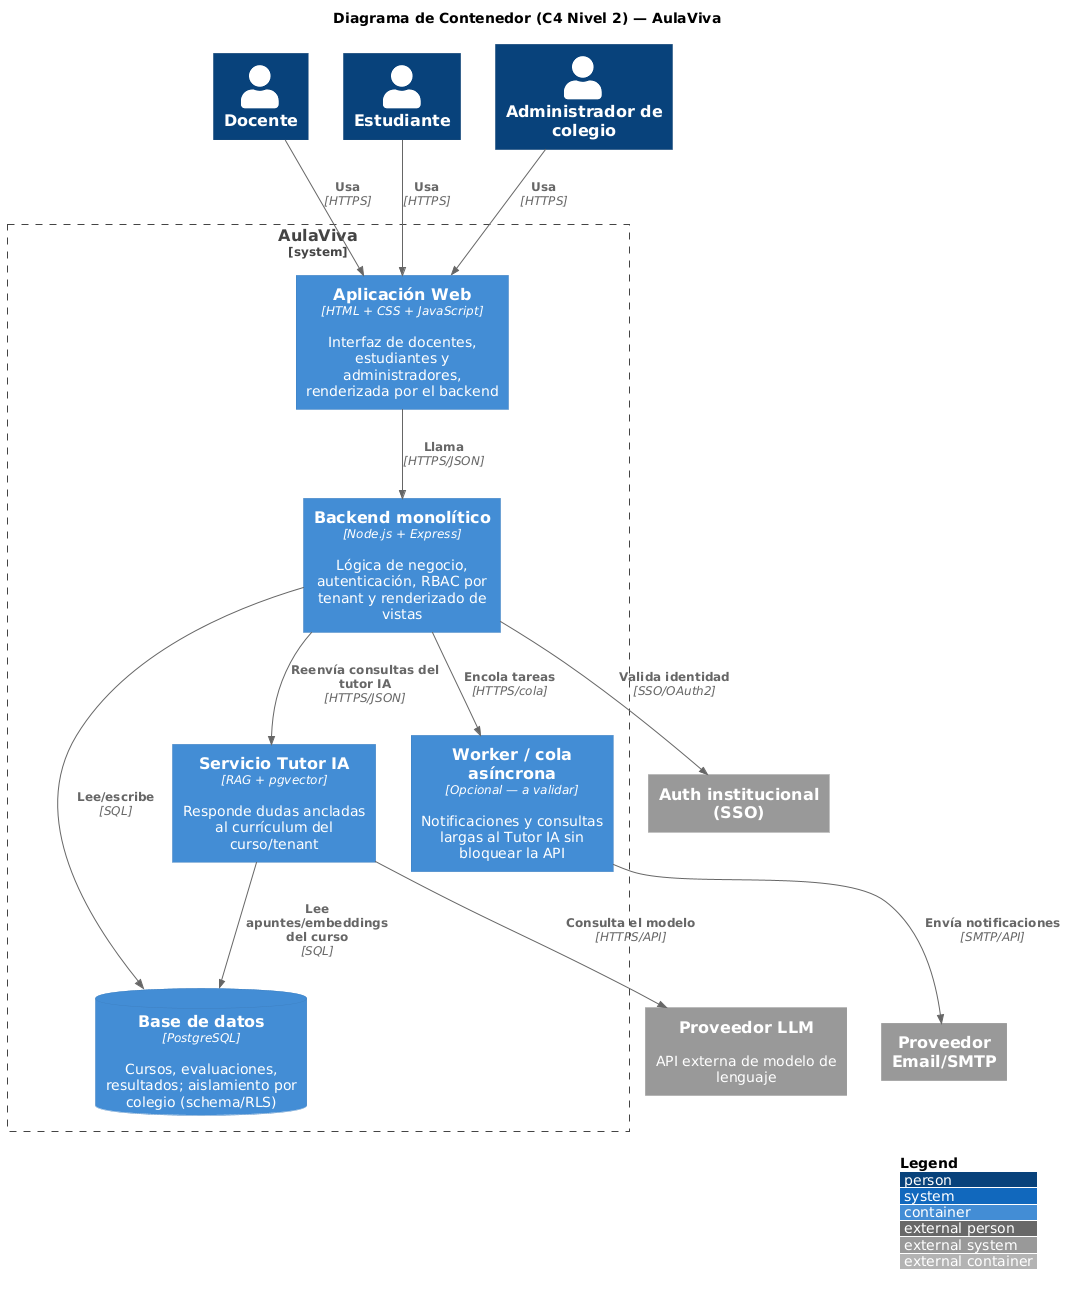
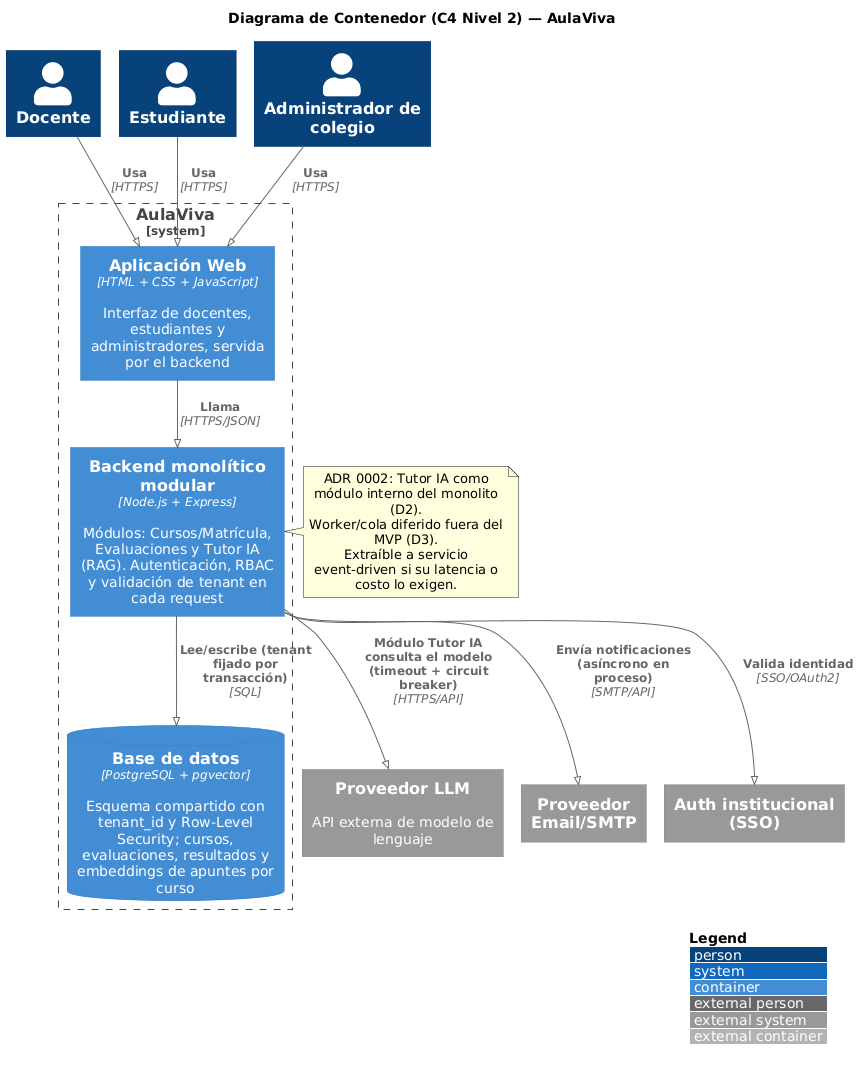
docs: cerrar pendientes de S03 (ADR 0002 aceptado, C4 L2, NFRs, README)
ADR 0002: aislamiento con RLS, Tutor IA como modulo interno, worker diferido. Metricas de atributos de calidad. C4 L2 actualizado. README y ADR 0001 corregidos. Nuevo adr/template.md.

diff --git a/FeathersForAll/Documentos/adr/0002-estilo-arquitectonico.md b/FeathersForAll/Documentos/adr/0002-estilo-arquitectonico.md
@@ -2,53 +2,81 @@
 
 ## Estado
 
-Propuesto — pendiente de aceptación por el equipo (Ignacio Ibañez, Juan Castillo, Iván Oliva, Bastián González, Cristofer Jeria, Alex Flores).
+Aceptado — 2026-09-28. Decisión del Tech Lead (Iván Oliva); pendiente de ratificar en la reunión del equipo (Ignacio Ibañez, Juan Castillo, Bastián González, Cristofer Jeria, Alex Flores). Si el equipo objeta algún punto, se crea un ADR nuevo que lo reemplace (los ADR no se editan).
 
 ## Contexto
 
-AulaViva es una plataforma SaaS multi-tenant que debe permitir a cada colegio gestionar cursos, crear evaluaciones auto-corregidas con retroalimentación inmediata, y ofrecer un tutor IA (RAG) que responda dudas ancladas al currículum de cada curso, aislado por tenant.
+AulaViva es una plataforma SaaS multi-tenant que debe permitir a cada colegio gestionar cursos, crear evaluaciones auto-corregidas con retroalimentación inmediata, y ofrecer un tutor IA (RAG) que responda dudas ancladas al currículum de cada curso, aislado por tenant.
 
-El equipo está compuesto por 6 personas y el proyecto está en etapa de MVP para el piloto 2026. El dominio (gestión académica + tutor IA) todavía se está descubriendo, por lo que se prioriza poder iterar rápido sin cargar con complejidad operacional innecesaria desde el día uno.
+El equipo está compuesto por 6 personas y el proyecto está en etapa de MVP para el piloto 2026. El dominio (gestión académica + tutor IA) todavía se está descubriendo, por lo que se prioriza poder iterar rápido sin cargar con complejidad operacional innecesaria desde el día uno.
 
 ## Decisión
 
-Se adopta un **modular monolith** como estilo arquitectónico inicial, con fronteras de módulo claras entre: gestión de cursos/matrícula, evaluaciones, y tutor IA (RAG). El módulo de Tutor IA queda diseñado para poder **extraerse como servicio event-driven** más adelante, si el volumen de consultas o su latencia lo justifican.
+Se adopta un **modular monolith** como estilo arquitectónico inicial, con fronteras de módulo claras entre: gestión de cursos/matrícula, evaluaciones, y tutor IA (RAG). El módulo de Tutor IA queda diseñado para poder **extraerse como servicio event-driven** más adelante, si el volumen de consultas o su latencia lo justifican.
+
+### Decisiones complementarias (cierran los puntos abiertos de la versión anterior)
+
+**D1. Aislamiento multi-tenant: esquema compartido + `tenant_id` + Row-Level Security (RLS) de PostgreSQL.**
+- Todas las tablas de negocio llevan `tenant_id` (1 colegio = 1 tenant).
+- Cada request autenticado fija el tenant de la transacción (`SET LOCAL app.tenant_id = ...`) y las políticas RLS filtran por ese valor; el rol de conexión de la app no es superusuario ni `BYPASSRLS`.
+- Los embeddings del Tutor IA (pgvector) también llevan `tenant_id` y `course_id`, y la búsqueda siempre filtra por ambos.
+- Por qué no `schema_per_tenant`: multiplica migraciones y conexiones por colegio, complica pgvector y el pooling, y es más costoso de operar para un equipo primerizo de 6 personas. Se reevalúa si un colegio exige aislamiento físico.
+- Consecuencia: el aislamiento depende de que ninguna consulta evite RLS; se cubre con tests automatizados de fuga entre tenants (QA) y con el atributo de calidad "0 fugas".
+- En configuración (12-Factor): `TENANT_STRATEGY="shared_schema_rls"`.
+
+**D2. Ubicación del Tutor IA: módulo dentro del mismo proceso Express en el MVP.**
+- Vive en su propia carpeta/módulo con una interfaz explícita (`tutorService.ask(tenantId, courseId, question)`); ningún otro módulo toca sus tablas ni sus prompts.
+- Llama al proveedor LLM por HTTPS con timeout y circuit breaker, de modo que la caída del LLM no bloquee cursos ni evaluaciones (atributo de disponibilidad).
+- Se extrae a servicio aparte solo si se cumple alguna condición: latencia p95 del tutor degrada al resto de la API, o el costo/uso de LLM exige escalarlo de forma independiente.
+
+**D3. Worker / cola asíncrona: diferido, fuera del MVP.**
+- Las notificaciones y consultas largas se resuelven de forma asíncrona dentro del proceso (promesas/timeouts) mientras el volumen del piloto sea bajo.
+- Si aparece la necesidad, el primer paso es una tabla de jobs en PostgreSQL (patrón outbox), antes de introducir un broker. La elección de broker se revisa en el ADR 0004 (datos y eventos).
 
 ## Consecuencias
 
 **Gana:**
 
 - Deploy único, más simple de operar y depurar con un equipo de 6 personas.
-
 - Transacciones ACID naturales entre cursos, matrículas y evaluaciones.
-
-- El módulo de Tutor IA queda delimitado desde el día 1, facilitando una futura extracción sin reescribir el dominio completo.
+- El módulo de Tutor IA queda delimitado desde el día 1, facilitando una futura extracción sin reescribir el dominio completo.
+- Un solo esquema y un solo conjunto de migraciones para todos los colegios.
 
 **Pierde / se vuelve más difícil:**
 
-- Requiere disciplina de módulos: si el monolito no se mantiene realmente modular, la futura extracción del Tutor IA será costosa.
-
-- Escalabilidad acoplada: si el tutor IA necesita escalar de forma independiente al resto del sistema, el monolito no lo permite sin refactor.
+- Requiere disciplina de módulos: si el monolito no se mantiene realmente modular, la futura extracción del Tutor IA será costosa.
+- Escalabilidad acoplada: si el tutor IA necesita escalar de forma independiente al resto del sistema, el monolito no lo permite sin refactor.
+- El aislamiento entre colegios descansa en RLS y en `tenant_id` bien aplicado: un error de política es una fuga de datos entre tenants (dato de menores). Requiere pruebas específicas.
+- Sin cola en el MVP, un pico de consultas al tutor compite con la API por recursos del mismo proceso.
 
 ## Alternativas descartadas
 
-- **Microservicios desde el día 0:** complejidad operacional excesiva para un equipo de 6 personas sin DevOps dedicado; no se justifica en la etapa de MVP/piloto.
-
-- **Serverless puro (FaaS):** los cold starts son incompatibles con una experiencia de tutor IA conversacional y fluida para el estudiante.
+- **Microservicios desde el día 0:** complejidad operacional excesiva para un equipo de 6 personas sin DevOps dedicado; no se justifica en la etapa de MVP/piloto.
+- **Serverless puro (FaaS):** los cold starts son incompatibles con una experiencia de tutor IA conversacional y fluida para el estudiante.
+- **Esquema por tenant (`schema_per_tenant`):** mejor aislamiento lógico, pero costo de migraciones, pooling y pgvector demasiado alto para el equipo actual.
+- **Tutor IA como servicio separado desde el inicio:** añade red, despliegue y observabilidad distribuida sin evidencia de que se necesite.
+- **Worker con broker (Kafka/RabbitMQ) desde el inicio:** sobredimensionado para el volumen del piloto.
 
 ## Stack confirmado
 
-- **Frontend:** HTML + CSS + JavaScript (sin framework de SPA), servido por el propio backend.
+- **Frontend:** HTML + CSS + JavaScript (sin framework de SPA), servido por el propio backend.
 
 - **Backend:** Node.js + Express, como monolito único.
 
-- **Base de datos:** PostgreSQL, elegida por su robustez y madurez en la persistencia y validación de datos.
+- **Base de datos:** PostgreSQL (con RLS y extensión pgvector para el RAG), elegida por su robustez y madurez en la persistencia y validación de datos.
 
-Este stack refuerza la decisión de modular monolith: sin un framework SPA ni microservicios, mantener un único backend Express es la opción más simple de operar para un equipo primerizo de 6 personas.
+Este stack refuerza la decisión de modular monolith: sin un framework SPA ni microservicios, mantener un único backend Express es la opción más simple de operar para un equipo primerizo de 6 personas.
+
+## Fecha
+
+2026-09-28
+
+## Autores
+
+Equipo AulaViva (redacción: Tech Lead)
 
 ## Próximos pasos
 
-- Validar esta decisión con el equipo completo antes de marcarla como "Aceptada".
-
-- Confirmar si el módulo de Tutor IA (RAG) también corre dentro del mismo proceso Express o como servicio separado desde el inicio.
-
+- Ratificar este ADR en la reunión del equipo (lunes o miércoles) y dejar constancia en el PR.
+- Reflejar D1–D3 en el C4 L2 (ya actualizado en `c4/l2-container.puml`) y en el checklist 12-Factor de la S04.
+- Escribir el ADR 0003 (estilo cloud) y el ADR 0004 (datos y eventos), que heredan estas decisiones.

diff --git a/readme.md b/readme.md
@@ -1,11 +1,11 @@
-# FeathersForAll — Equipo XX
+# FeathersForAll — Equipo AulaViva
 
 > Plataforma SaaS multi-tenant con tutor IA para colegios de la Región Metropolitana.
 > Proyecto del **Taller de Ingeniería de Software** · 18 sesiones · Semestre 2026.
 
-[![Sesión](https://img.shields.io/badge/sesi%C3%B3n-S01-informational)](docs/adr/0001-eleccion-iniciativa.md)
-[![Iniciativa](https://img.shields.io/badge/iniciativa-AulaViva-success)](docs/adr/0001-eleccion-iniciativa.md)
-[![Charter](https://img.shields.io/badge/charter-v1.0-blue)](CHARTER.md)
+[![Sesión](https://img.shields.io/badge/sesi%C3%B3n-S03-informational)](FeathersForAll/Documentos/adr/0001-eleccion-iniciativa.md)
+[![Iniciativa](https://img.shields.io/badge/iniciativa-AulaViva-success)](FeathersForAll/Documentos/adr/0001-eleccion-iniciativa.md)
+[![Charter](https://img.shields.io/badge/charter-v1.0-blue)](FeathersForAll/Documentos/Entregables/Charter.md)
 
 ---
 
@@ -57,7 +57,7 @@ graph TB
 | Cristofer | QA Lead | Estrategia de pruebas |
 | Alex | QA — Automatización | Suite automatizada y quality gates |
 
-Roles, reglas de trabajo, Definition of Done y política de IA: **[CHARTER.md](CHARTER.md)**.
+Roles, reglas de trabajo, Definition of Done y política de IA: **[CHARTER.md](FeathersForAll/Documentos/Entregables/Charter.md)**.
 
 ---
 
@@ -65,19 +65,24 @@ Roles, reglas de trabajo, Definition of Done y política de IA: **[CHARTER.md](C
 
 ```text
 .
-├── CHARTER.md                  # Acta del equipo: roles, DoD, política de IA
-├── README.md
-├── docs/
-│   ├── adr/                    # Architecture Decision Records
-│   │   ├── template.md
-│   │   └── 0001-eleccion-iniciativa.md
-│   └── compromisos-s02.md      # Compromisos hasta la próxima sesión
-├── .github/
-│   ├── ISSUE_TEMPLATE/
-│   └── pull_request_template.md
-└── scripts/
-    └── bootstrap-board.sh      # Crea labels e issues iniciales vía gh CLI
+├── readme.md
+└── FeathersForAll/
+    └── Documentos/
+        ├── Entregables/
+        │   └── Charter.md              # Acta del equipo: roles, DoD, política de IA
+        ├── adr/                        # Architecture Decision Records
+        │   ├── template.md
+        │   ├── 0001-eleccion-iniciativa.md
+        │   └── 0002-estilo-arquitectonico.md
+        ├── arch/
+        │   └── atributos-calidad.md    # Top 3 NFRs con métricas
+        ├── c4/                         # l1-context y l2-container (.puml + .png)
+        ├── scenarios/                  # 15 escenarios Gherkin (h1..h5 .feature)
+        ├── impact-map.md
+        └── backlog.md                  # 5 historias INVEST + MoSCoW
 ```
+
+Pendiente según el taller: `12-factor-checklist.md`, `adr/0003` (S04); `api/openapi.yaml` (S05); `data/` y `adr/0004` (S06).
 
 ---
 
@@ -87,10 +92,12 @@ Toda decisión cara de revertir se registra como ADR con el formato **Título ·
 
 | ADR | Título | Estado | Fecha |
 |---|---|---|---|
-| [0001](docs/adr/0001-eleccion-iniciativa.md) | Elección de la iniciativa del semestre: AulaViva | Aceptada | `<DD-MM-2026>` |
-| 0002 | Modelo de aislamiento multi-tenant | Pendiente | S03 |
+| [0001](FeathersForAll/Documentos/adr/0001-eleccion-iniciativa.md) | Elección de la iniciativa del semestre: AulaViva | Aceptada | 21-08-2026 |
+| [0002](FeathersForAll/Documentos/adr/0002-estilo-arquitectonico.md) | Estilo arquitectónico: modular monolith (incluye aislamiento multi-tenant con RLS, Tutor IA como módulo interno y worker diferido) | Aceptada (por ratificar en reunión) | 28-09-2026 |
+| 0003 | Estilo cloud y servicios gestionados | Pendiente | S04 |
+| 0004 | Datos y eventos | Pendiente | S06 |
 
-Para crear una nueva: copiar `docs/adr/template.md` con el número correlativo y enlazarla en esta tabla.
+Para crear una nueva: copiar `FeathersForAll/Documentos/adr/template.md` con el número correlativo y enlazarla en esta tabla.
 
 ---
 
@@ -101,7 +108,7 @@ Para crear una nueva: copiar `docs/adr/template.md` con el número correlativo y
 3. Commits en formato [Conventional Commits](https://www.conventionalcommits.org).
 4. Si usaste IA, decláralo con el trailer `AI-Assisted:` en el commit y completa la sección correspondiente del PR.
 5. Abre el PR contra `develop` con `Closes #NN`. Requiere 1 aprobación y CI en verde.
-6. Verifica el [Definition of Done](CHARTER.md#4-definition-of-done-preliminar) antes de mover la issue a `Done`.
+6. Verifica el [Definition of Done](FeathersForAll/Documentos/Entregables/Charter.md#7-definition-of-done-dod) antes de mover la issue a `Done`.
 
 > Las ramas `main` y `develop` están protegidas: sin push directo.
 
@@ -124,7 +131,7 @@ Seis columnas con criterios de entrada explícitos:
 
 ## Política de uso de IA
 
-Permitida y esperada, **siempre declarada**. Prohibido subir datos personales reales a cualquier servicio de IA: el proyecto trata datos de menores de edad y trabajamos exclusivamente con datos sintéticos. Detalle completo en el [Charter, sección 5](CHARTER.md#5-política-de-uso-de-ia).
+Permitida y esperada, **siempre declarada**. Prohibido subir datos personales reales a cualquier servicio de IA: el proyecto trata datos de menores de edad y trabajamos exclusivamente con datos sintéticos. Detalle completo en el [Charter, sección 8](FeathersForAll/Documentos/Entregables/Charter.md#8-política-de-uso-de-inteligencia-artificial).
 
 ---
 

diff --git a/FeathersForAll/Documentos/arch/atributos-calidad.md b/FeathersForAll/Documentos/arch/atributos-calidad.md
@@ -3,38 +3,54 @@
 Top 3 atributos de calidad (NFRs) que guían las decisiones arquitectónicas
 de AulaViva, en orden de prioridad para el piloto 2026.
 
+Las métricas de esta versión son **propuestas del Tech Lead** (2026-09-28) para
+cerrar los valores que estaban pendientes; se ajustan con datos reales del
+piloto y se ratifican en la reunión del equipo.
+
 ## 1. Seguridad — Aislamiento por tenant (RBAC)
 - **Métrica:** 0 casos de fuga de datos entre colegios (tenants) en
   auditoría; control de acceso por rol (docente / estudiante / admin
-  colegio) verificado en el 100% de los endpoints.
+  colegio) verificado en el 100% de los endpoints; 100% de las tablas con
+  `tenant_id` protegidas por política RLS.
+- **Cómo se verifica:** suite automatizada de "fuga entre tenants" (QA) que
+  intenta leer/escribir datos de otro colegio en cada endpoint y falla el
+  build si lo logra; incluye el Tutor IA (ningún apunte de otro tenant en
+  las fuentes de una respuesta).
 - **Impacto en la arquitectura:** IAM granular por rol, aislamiento de
-  datos por colegio (schema o RLS en PostgreSQL), validación de tenant en
-  cada request de la API.
+  datos por colegio con esquema compartido + `tenant_id` + Row-Level
+  Security en PostgreSQL (ADR 0002, D1), validación de tenant en cada
+  request de la API. Datos de menores: solo datos sintéticos en
+  desarrollo y consentimiento parental para datos reales.
 - **Responsable sugerido:** equipo backend / Tech Lead.
 
 ## 2. Disponibilidad — SLA durante horario escolar
-- **Métrica:** disponibilidad objetivo durante el horario de clases del
-  colegio piloto (a definir el % exacto, ej. 99.5%).
-- **Impacto en la arquitectura:** health checks en la API, manejo de
-  caídas o timeouts del proveedor LLM sin bloquear el resto del sistema,
-  monitoreo básico de errores.
-- **Responsable sugerido:** Tech Lead + equipo backend.
+- **Métrica:** 99.5% mensual dentro del horario de clases del colegio
+  piloto (propuesta: lunes a viernes, 07:30–18:00, hora de Santiago);
+  latencia p95 de la API (sin Tutor IA) < 500 ms; latencia p95 de una
+  respuesta del Tutor IA < 8 s.
+- **Impacto en la arquitectura:** health checks en la API, timeout y
+  circuit breaker hacia el proveedor LLM para que su caída no bloquee el
+  resto del sistema (ADR 0002, D2), monitoreo básico de errores y
+  degradación controlada ("el tutor no está disponible ahora") en vez de
+  error genérico.
+- **Responsable sugerido:** Tech Lead + DevSecOps.
 
 ## 3. Mantenibilidad — Lead time de cambios
 - **Métrica:** el equipo puede entregar un cambio de módulo (cursos,
   evaluaciones o tutor IA) sin depender de soporte técnico externo ni de
-  tocar los otros módulos.
+  tocar los otros módulos; un cambio típico de un módulo se integra
+  (PR revisado y en `main`) en menos de 3 días hábiles.
 - **Impacto en la arquitectura:** módulos con fronteras claras dentro del
   monolito Express (ver ADR 0002), documentación viva de cada contenedor
-  en `docs/c4/`. Al ser un equipo primerizo con HTML/CSS/JS y Express sin
-  framework, mantener carpetas/rutas bien organizadas por módulo es clave
-  para no acoplar todo en un solo archivo.
+  en `Documentos/c4/`. Al ser un equipo primerizo con HTML/CSS/JS y Express
+  sin framework, mantener carpetas/rutas bien organizadas por módulo es
+  clave para no acoplar todo en un solo archivo.
 - **Responsable sugerido:** todo el equipo.
 
 ## Stack confirmado
 Frontend HTML + CSS + JavaScript · Backend Node.js + Express (monolito) ·
-Base de datos PostgreSQL.
+Base de datos PostgreSQL (RLS + pgvector).
 
 ---
-*Nota: las métricas exactas (SLA %, umbrales de latencia, etc.) quedan
-pendientes de que el equipo las defina con datos reales del piloto.*
+*Nota: las cifras son puntos de partida; se recalibran con datos del piloto.
+Cualquier cambio de métrica se registra en un ADR o en este archivo con fecha.*

diff --git a/FeathersForAll/Documentos/adr/0001-eleccion-iniciativa.md b/FeathersForAll/Documentos/adr/0001-eleccion-iniciativa.md
@@ -1,8 +1,12 @@
 # ADR 0001 - Elección de iniciativa AulaViva
 
+## Estado
+
+Aceptado — 2026-08-21
+
 ## Contexto
 
-El equipo debía seleccionar una de las iniciativas propuestas para desarrollar durante el taller de Ingeniería de Software.
+El equipo debía seleccionar una de las tres iniciativas propuestas en el taller de Ingeniería de Software: MediTriage (HealthTech, triage clínico asistido por IA), CrediScore (FinTech, scoring crediticio y detección de fraude) y AulaViva (EdTech, plataforma SaaS multi-tenant con tutor IA).
 
 ## Decisión
 
@@ -27,6 +31,11 @@ Se decidió desarrollar AulaViva debido a su complejidad técnica, impacto educa
 - Mayor complejidad técnica.
 - Requiere mayor control de seguridad.
 - La implementación del tutor IA implica desafíos adicionales.
+
+## Alternativas descartadas
+
+- **MediTriage (HealthTech):** su definición exige explicabilidad de cada decisión IA, auditoría inmutable por 5 años y cumplimiento de normativa chilena de datos sensibles de salud.
+- **CrediScore (FinTech):** su definición exige decisión de crédito en menos de 60 s, eventos de fraude en menos de 500 ms, fairness del modelo y trazabilidad para auditoría CMF.
 
 ## Fecha
 

diff --git a/FeathersForAll/Documentos/adr/template.md b/FeathersForAll/Documentos/adr/template.md
@@ -1,0 +1,37 @@
+# ADR NNNN · <Título corto de la decisión>
+
+## Estado
+
+Propuesto | Aceptado | Reemplazado por ADR NNNN | Deprecado — <YYYY-MM-DD>
+
+## Contexto
+
+Qué problema estamos resolviendo y qué fuerzas están en juego.
+
+## Decisión
+
+Qué elegimos, en una oración (y el detalle mínimo necesario).
+
+## Consecuencias
+
+**Gana:**
+
+- ...
+
+**Pierde / se vuelve más difícil:**
+
+- ...
+
+## Alternativas descartadas
+
+- **<Alternativa>:** por qué se descartó.
+
+## Fecha
+
+<YYYY-MM-DD>
+
+## Autores
+
+<Nombres>
+
+> Regla del taller: un ADR nunca se edita una vez aceptado. Si cambia la decisión, se marca como "Reemplazado" y se crea uno nuevo. Un archivo por ADR en `Documentos/adr/`, numerados: `NNNN-titulo-corto.md`.
